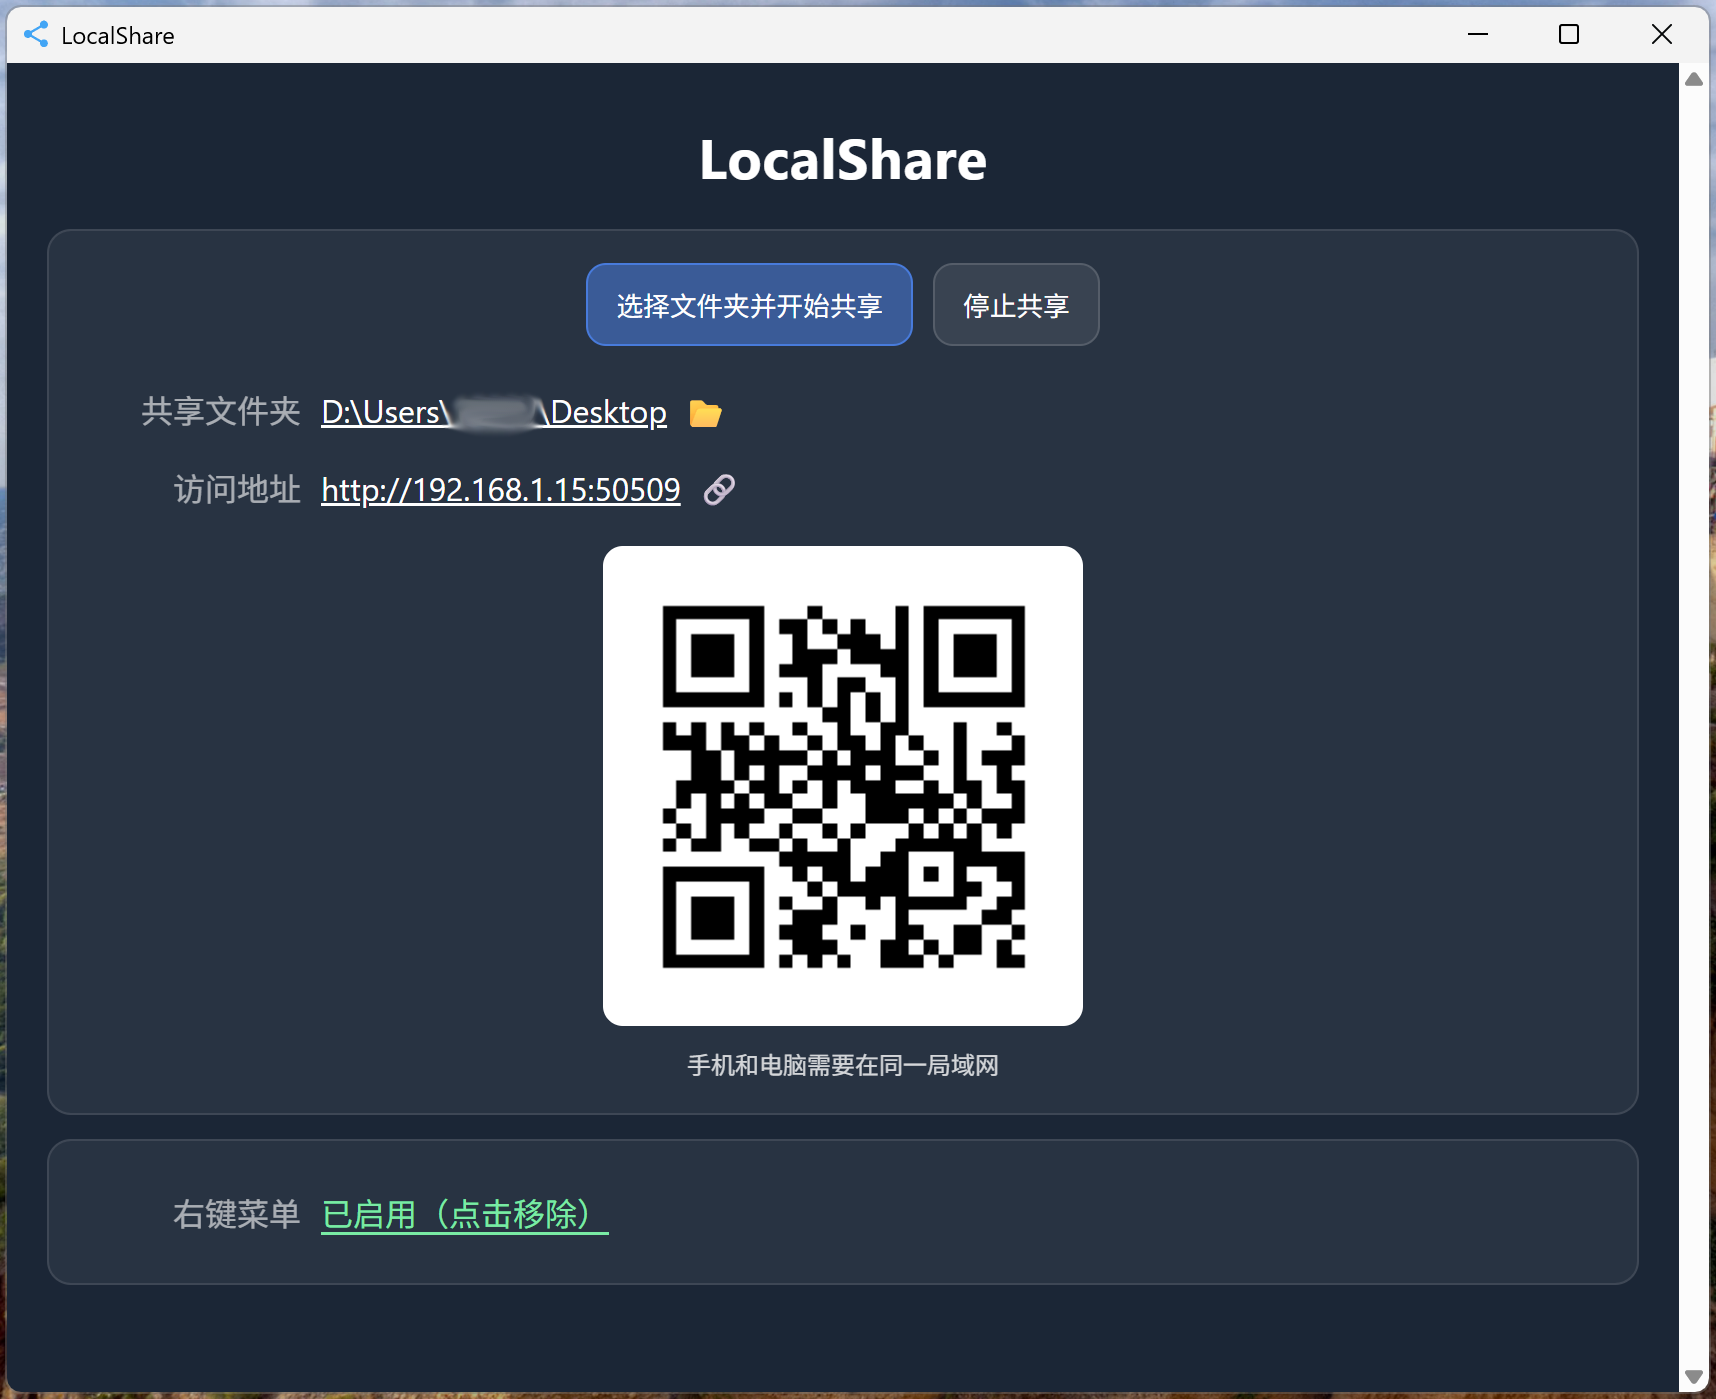
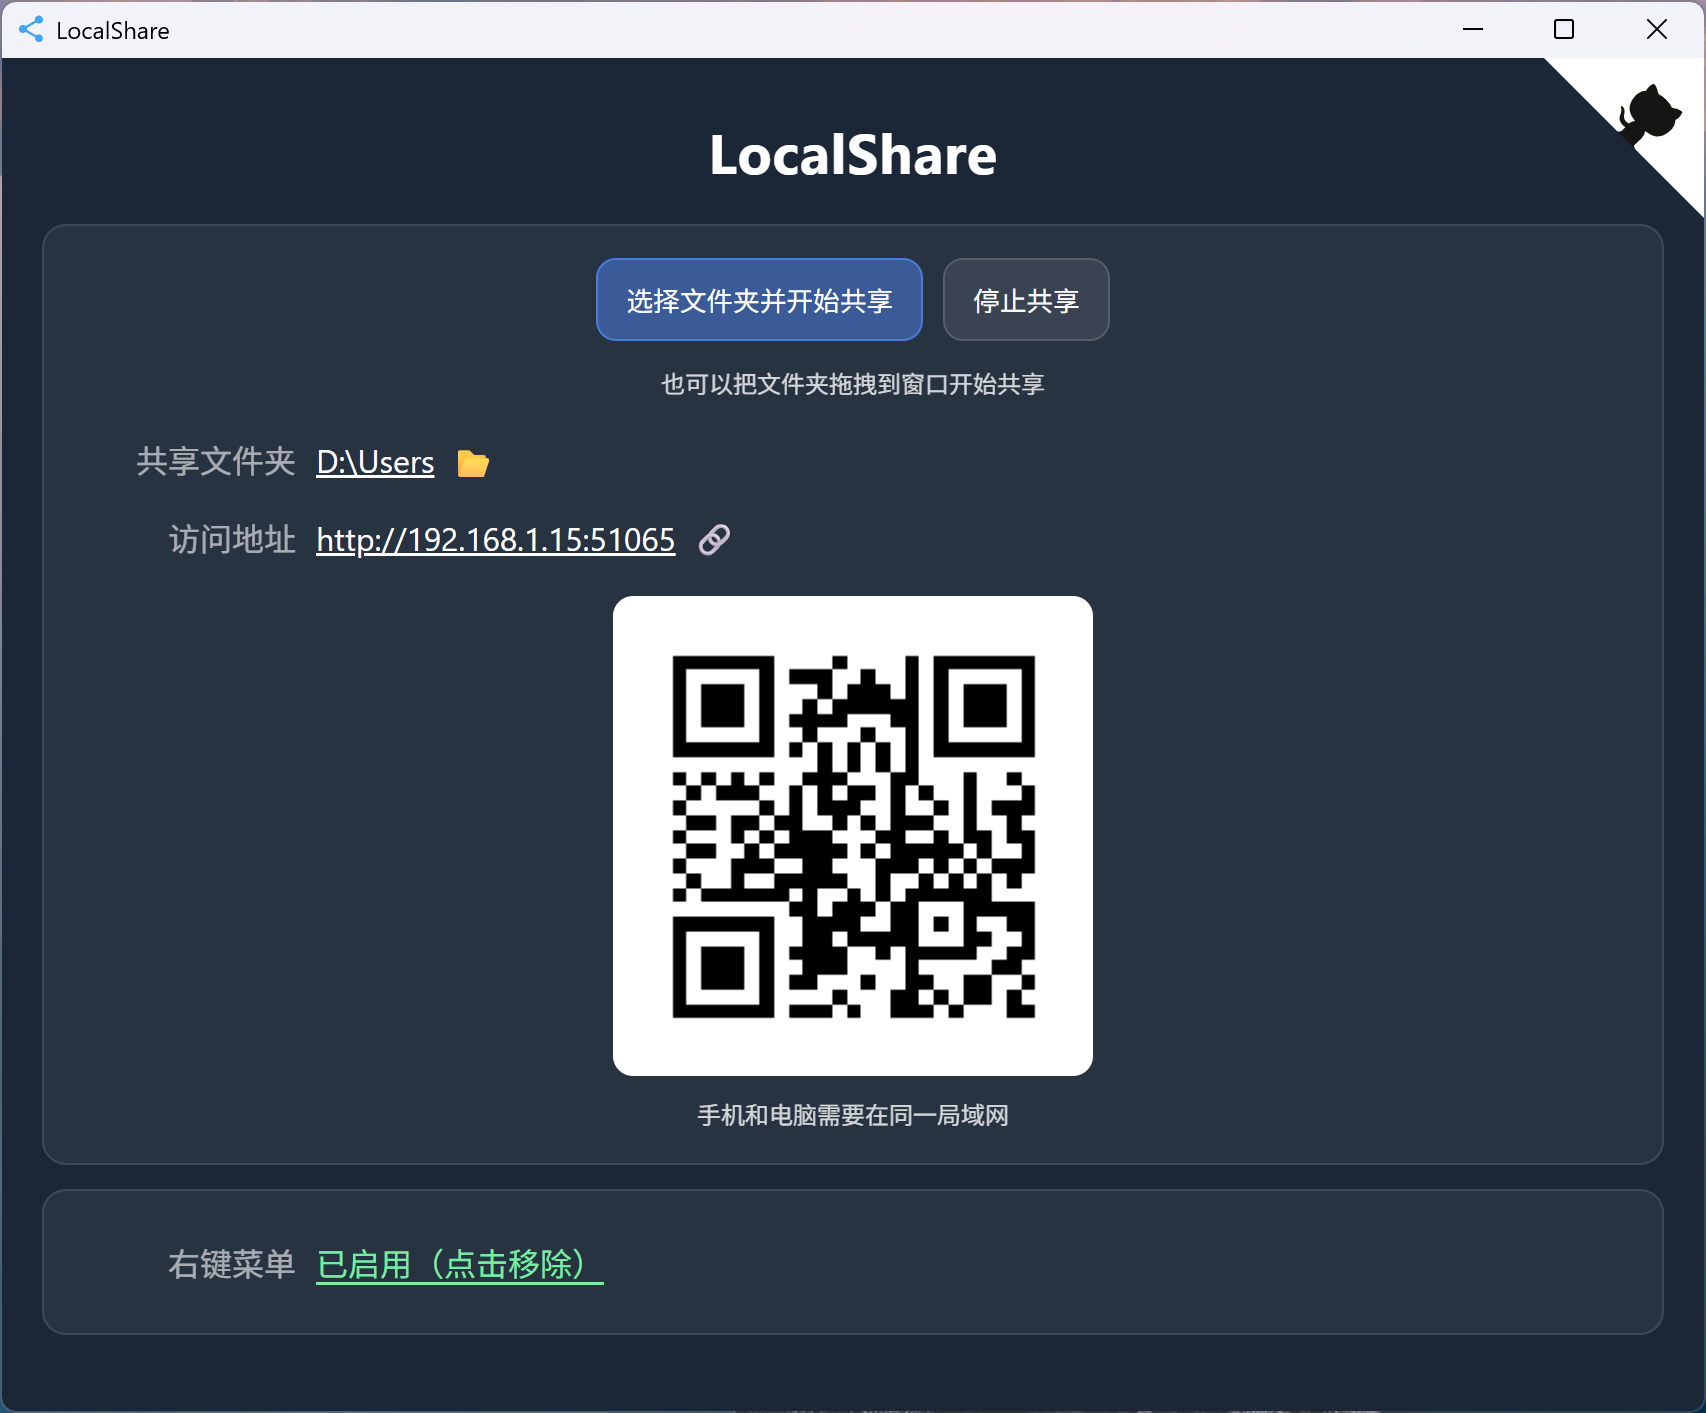
feat: 右上角新增项目 github 地址

Changed region(s): [[0.0621, 0.0922, 0.6524, 0.7991], [0.0, 0.0, 1.0, 1.0], [0.0932, 0.8606, 0.3417, 0.9221]]

diff --git a/frontend/index.html b/frontend/index.html
@@ -10,6 +10,17 @@
 <body>
   <div id="app">
     <div class="container">
+      <a class="github-corner" id="githubCorner" href="#" title="查看项目" aria-label="查看项目"><svg width="80" height="80"
+          viewBox="0 0 250 250" style="fill:#fff; color:#151513; position: absolute; top: 0; border: 0; right: 0;"
+          aria-hidden="true">
+          <path d="M0,0 L115,115 L130,115 L142,142 L250,250 L250,0 Z" />
+          <path
+            d="M128.3,109.0 C113.8,99.7 119.0,89.6 119.0,89.6 C122.0,82.7 120.5,78.6 120.5,78.6 C119.2,72.0 123.4,76.3 123.4,76.3 C127.3,80.9 125.5,87.3 125.5,87.3 C122.9,97.6 130.6,101.9 134.4,103.2"
+            fill="currentColor" style="transform-origin: 130px 106px;" class="octo-arm" />
+          <path
+            d="M115.0,115.0 C114.9,115.1 118.7,116.5 119.8,115.4 L133.7,101.6 C136.9,99.2 139.9,98.4 142.2,98.6 C133.8,88.0 127.5,74.4 143.8,58.0 C148.5,53.4 154.0,51.2 159.7,51.0 C160.3,49.4 163.2,43.6 171.4,40.1 C171.4,40.1 176.1,42.5 178.8,56.2 C183.1,58.6 187.2,61.8 190.9,65.4 C194.5,69.0 197.7,73.2 200.1,77.6 C213.8,80.2 216.3,84.9 216.3,84.9 C212.7,93.1 206.9,96.0 205.4,96.6 C205.1,102.4 203.0,107.8 198.3,112.5 C181.9,128.9 168.3,122.5 157.7,114.1 C157.9,116.9 156.7,120.9 152.7,124.9 L141.0,136.5 C139.8,137.7 141.6,141.9 141.8,141.8 Z"
+            fill="currentColor" class="octo-body" />
+        </svg></a>
       <h1 class="title">LocalShare</h1>
 
       <div class="card">

diff --git a/frontend/src/main.js b/frontend/src/main.js
@@ -18,12 +18,14 @@ import {
 import { toast } from "./toast";
 import { initShareFileDrop } from "./dragdrop/shareFileDrop";
 
-// UI 已在 frontend/index.html 里定义，这里只做事件绑定和数据刷新。
+const GITHUB_REPO_URL =
+  "https://github.com/xiaomingTang/local-share-golang/releases";
 
 const els = {
   btnPick: document.getElementById("btnPick"),
   btnStop: document.getElementById("btnStop"),
   btnCtx: document.getElementById("btnCtx"),
+  githubCorner: document.getElementById("githubCorner"),
   sharedFolder: document.getElementById("sharedFolder"),
   sharedFolderAction: document.getElementById("sharedFolderAction"),
   serverUrl: document.getElementById("serverUrl"),
@@ -225,6 +227,16 @@ els.btnCtx.addEventListener("click", async () => {
     console.error(e);
   }
   await refreshContextMenu();
+});
+
+els.githubCorner?.addEventListener("click", (e) => {
+  e.preventDefault();
+  try {
+    BrowserOpenURL(GITHUB_REPO_URL);
+  } catch (e) {
+    console.error(e);
+    toast.show("打开失败");
+  }
 });
 
 void refreshServer();

diff --git a/frontend/src/app.css b/frontend/src/app.css
@@ -4,6 +4,37 @@
   padding: 28px 20px;
 }
 
+.github-corner:hover .octo-arm {
+  animation: octocat-wave 560ms ease-in-out;
+}
+
+@keyframes octocat-wave {
+  0%,
+  100% {
+    transform: rotate(0);
+  }
+
+  20%,
+  60% {
+    transform: rotate(-25deg);
+  }
+
+  40%,
+  80% {
+    transform: rotate(10deg);
+  }
+}
+
+@media (max-width: 500px) {
+  .github-corner:hover .octo-arm {
+    animation: none;
+  }
+
+  .github-corner .octo-arm {
+    animation: octocat-wave 560ms ease-in-out;
+  }
+}
+
 .title {
   margin: 0 0 18px;
   font-size: 28px;
